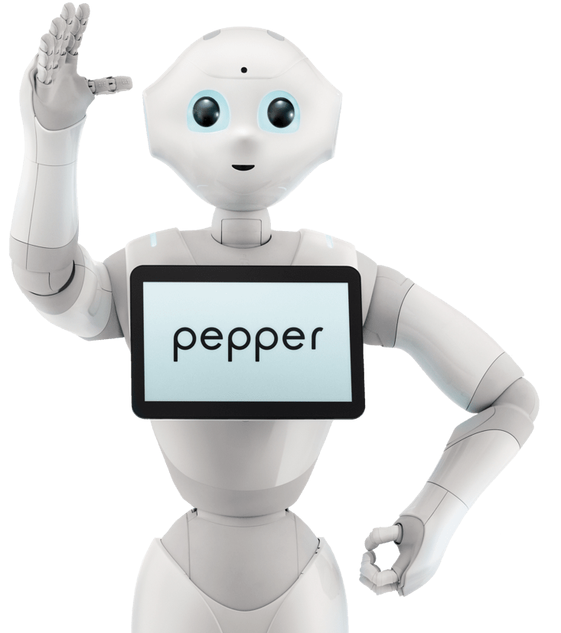
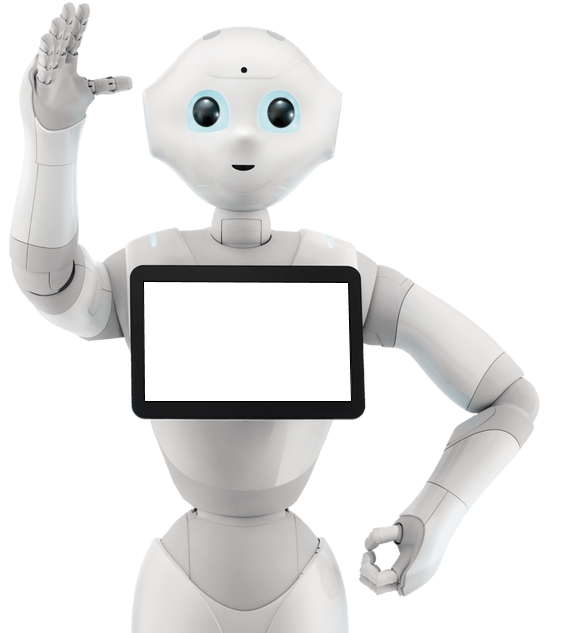
robot screen animation

Changed region(s): [[0.2424, 0.4202, 0.6364, 0.6603]]

diff --git a/src/components/DigitalEdgeSection.js b/src/components/DigitalEdgeSection.js
@@ -2,6 +2,7 @@ import React from 'react';
 import './DigitalEdgeSection.css';
 import pepper_hello from "./../img/pepper_hello.png"
 import we_are_the_robots from "./../img/we_are_the_robots.gif"
+import hello_animation from "./../img/hello_animation.gif"
 
 class DigitalEdgeSection extends React.Component {
     constructor(props){
@@ -15,7 +16,7 @@ class DigitalEdgeSection extends React.Component {
             <div className="digitalEdgeBody">
                 <div className="pepperImg">
                     <img src={pepper_hello}/>
-                    <img src={we_are_the_robots}/>
+                    <img src={hello_animation}/>
                 </div>
                 <div>
                   <h1>Digital Edge</h1>

diff --git a/src/components/DigitalEdgeSection.css b/src/components/DigitalEdgeSection.css
@@ -14,9 +14,9 @@ text-align: center;
 }
 .pepperImg img:nth-child(2){
     position: absolute;
-    top:220px;
-    left: 143px;
-  height: 100px;
+    top:270px;
+    left: 150px;
+  height: 40px;
 }
 
 .digitalEdgeBody h1{
